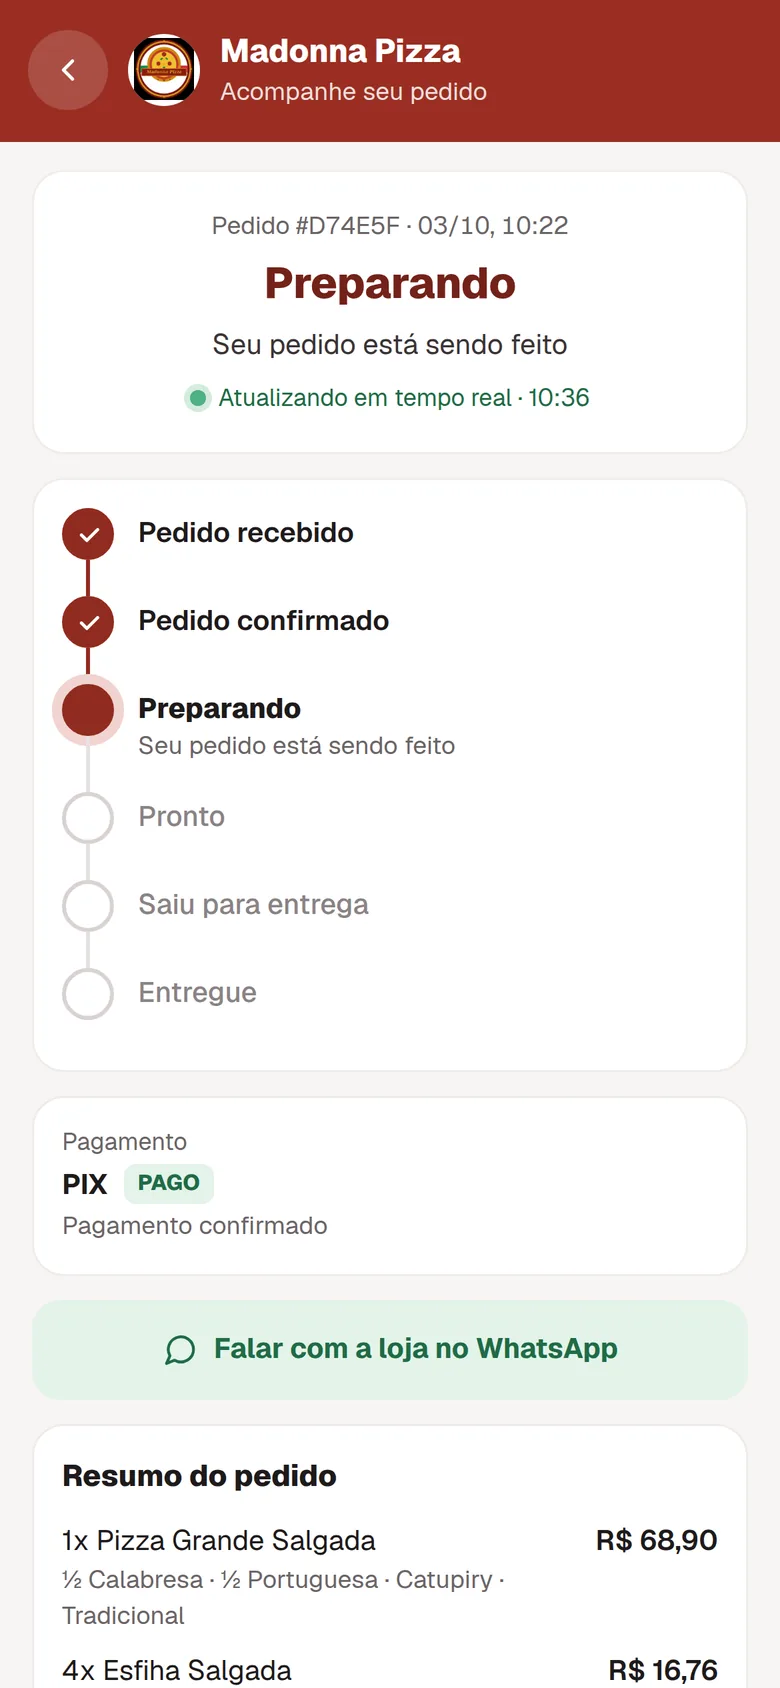
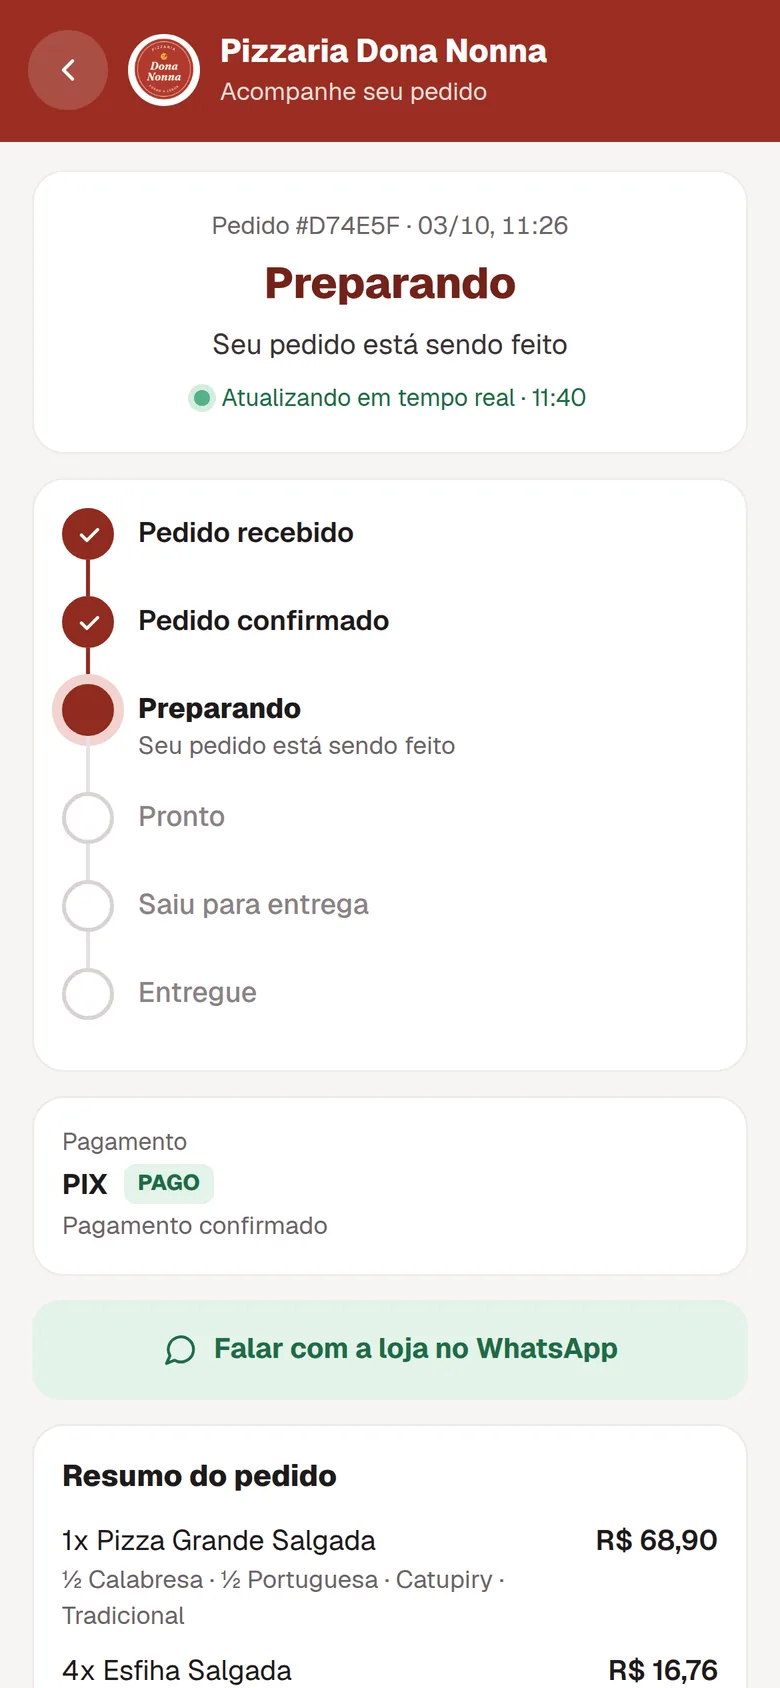
LP: loja de exemplo agora e a Pizzaria Dona Nonna (ficticia)
Claude-Session: https://claude.ai/code/session_01RgnPJEzEMs7SPbK4oTjsLU

diff --git a/index.html b/index.html
@@ -264,7 +264,7 @@ footer a{text-decoration:none;color:#CBC3C5}
       <p class="lead">Cardápio online com o seu logo e as suas cores, pedidos organizados num painel, PIX que se confirma sozinho e um assistente com IA que analisa o seu negócio. Tudo por uma mensalidade fixa.</p>
       <div class="cta-row">
         <a class="btn btn-main" href="#contato">Quero uma demonstração</a>
-        <a class="btn btn-ghost" href="https://pedido.orderflow.tec.br/madonna-pizza" target="_blank" rel="noopener">Abrir a loja de exemplo</a>
+        <a class="btn btn-ghost" href="https://pedido.orderflow.tec.br/dona-nonna" target="_blank" rel="noopener">Abrir a loja de exemplo</a>
       </div>
       <ul class="facts">
         <li><svg width="18" height="18" viewBox="0 0 24 24" fill="none" stroke="currentColor" stroke-width="2.4" stroke-linecap="round" stroke-linejoin="round"><path d="M5 12l5 5L20 7"/></svg>Sem comissão por pedido</li>
@@ -280,7 +280,7 @@ footer a{text-decoration:none;color:#CBC3C5}
         <img src="assets/img/ger-assistente.webp" alt="" aria-hidden="true" loading="lazy">
       </div></div>
       <div class="phone"><div class="screen slides" id="phoSlides">
-        <img class="on" src="assets/img/cli-cardapio.webp" alt="Cardápio online da Madonna Pizza no celular">
+        <img class="on" src="assets/img/cli-cardapio.webp" alt="Cardápio online da Pizzaria Dona Nonna no celular">
         <img src="assets/img/cli-pizza.webp" alt="" aria-hidden="true" loading="lazy">
         <img src="assets/img/cli-pagamento.webp" alt="" aria-hidden="true" loading="lazy">
         <img src="assets/img/cli-acompanhar.webp" alt="" aria-hidden="true" loading="lazy">
@@ -445,9 +445,9 @@ footer a{text-decoration:none;color:#CBC3C5}
   <div class="wrap">
     <div>
       <h2>Faça um pedido de teste na loja de exemplo</h2>
-      <p class="lead">A Madonna Pizza é a nossa loja de demonstração. Monte uma pizza meio a meio e veja como o seu cliente vai pedir.</p>
+      <p class="lead">A Pizzaria Dona Nonna é a nossa loja de demonstração, com dados inventados. Monte uma pizza meio a meio e veja como o seu cliente vai pedir.</p>
     </div>
-    <a class="btn btn-main" href="https://pedido.orderflow.tec.br/madonna-pizza" target="_blank" rel="noopener">Abrir a loja de exemplo</a>
+    <a class="btn btn-main" href="https://pedido.orderflow.tec.br/dona-nonna" target="_blank" rel="noopener">Abrir a loja de exemplo</a>
   </div>
 </section>
 
